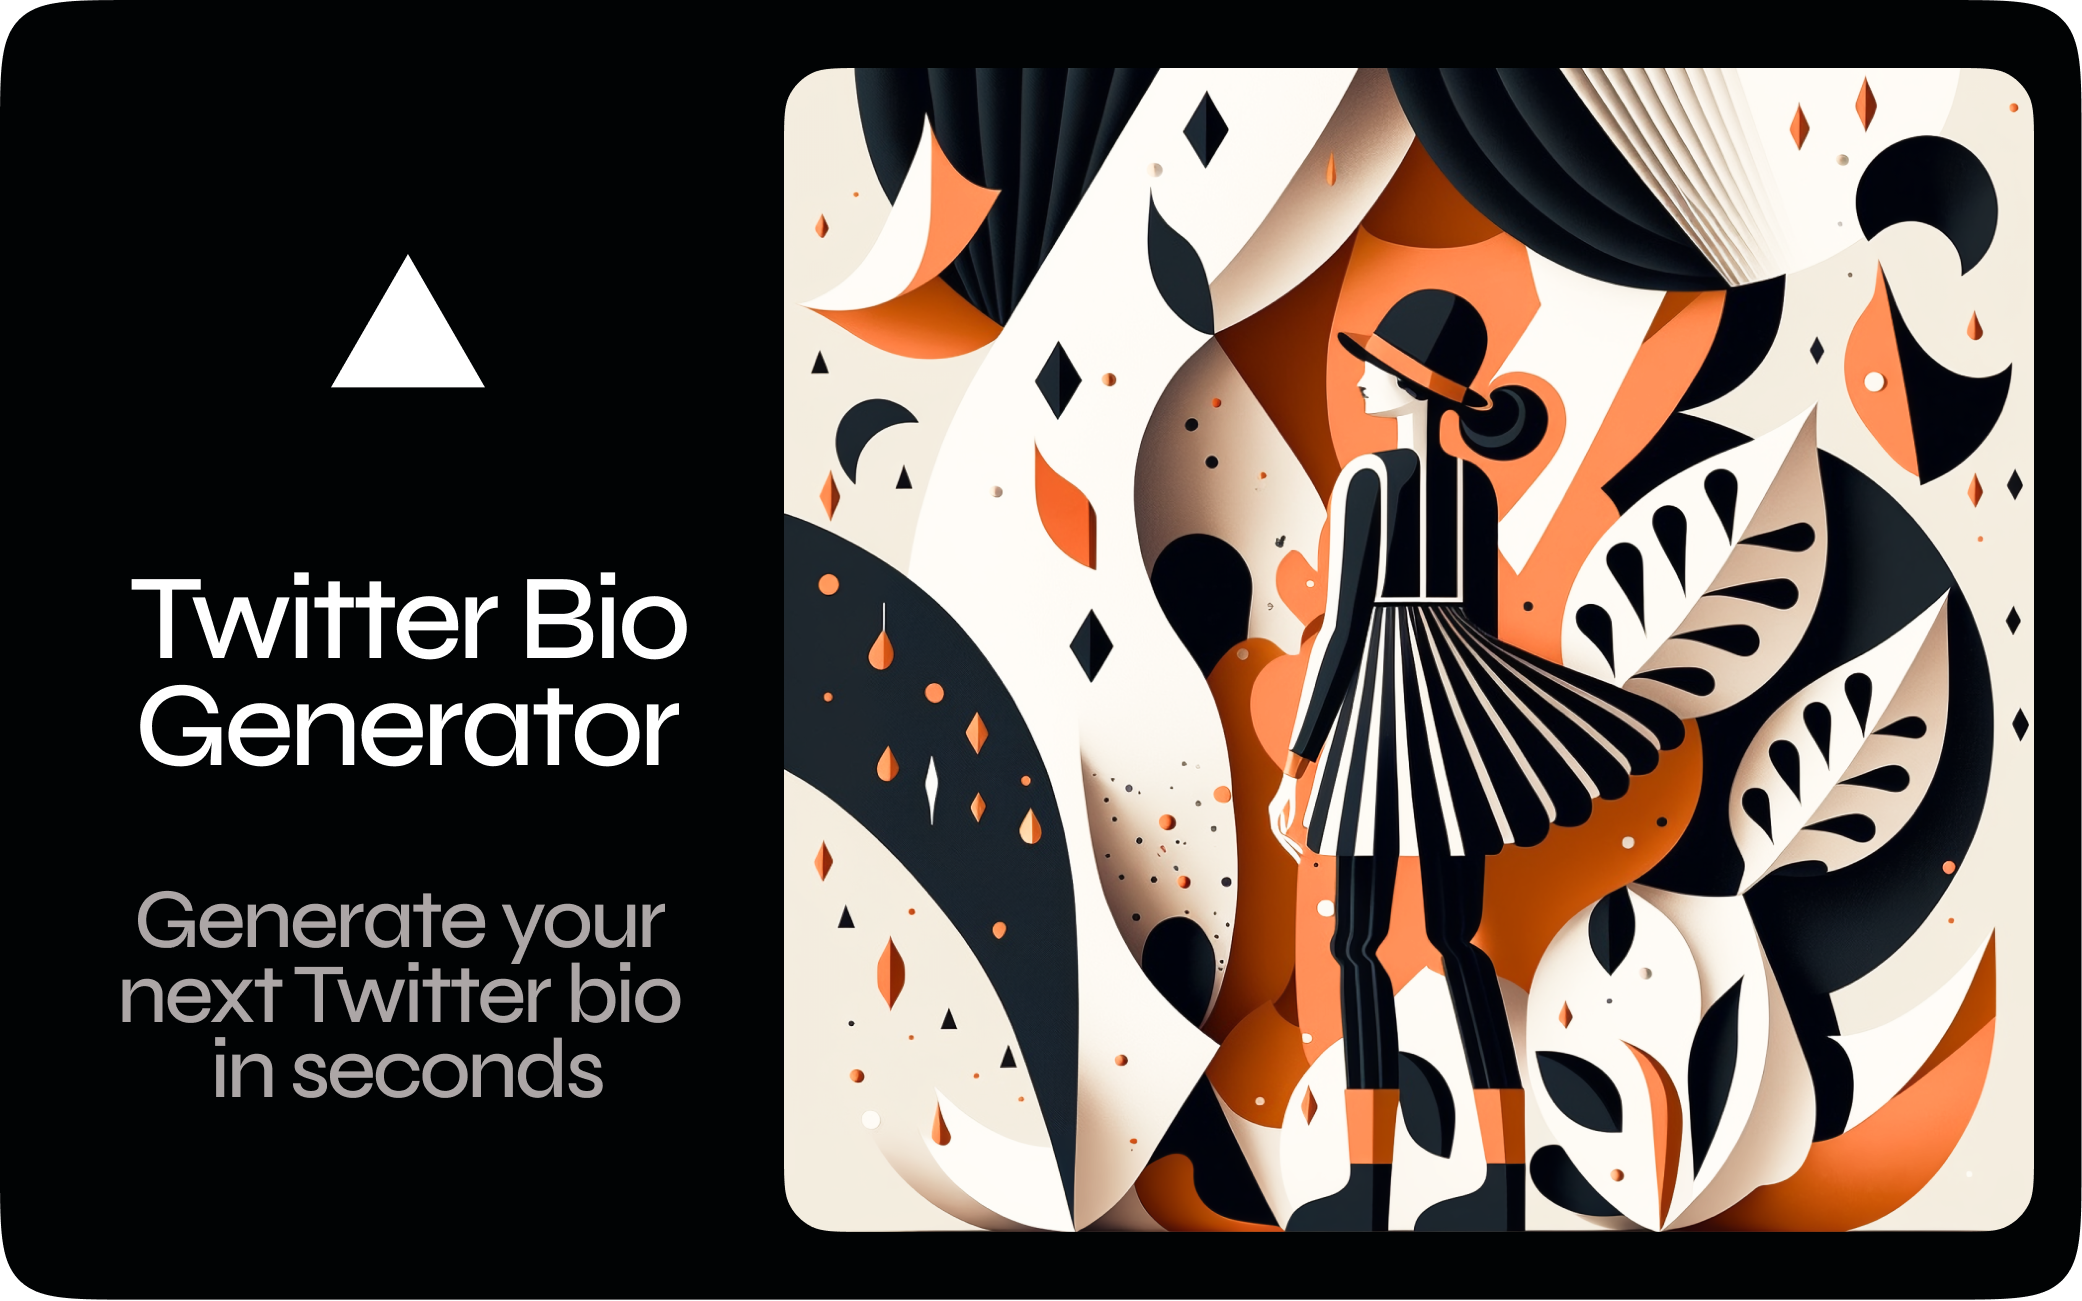
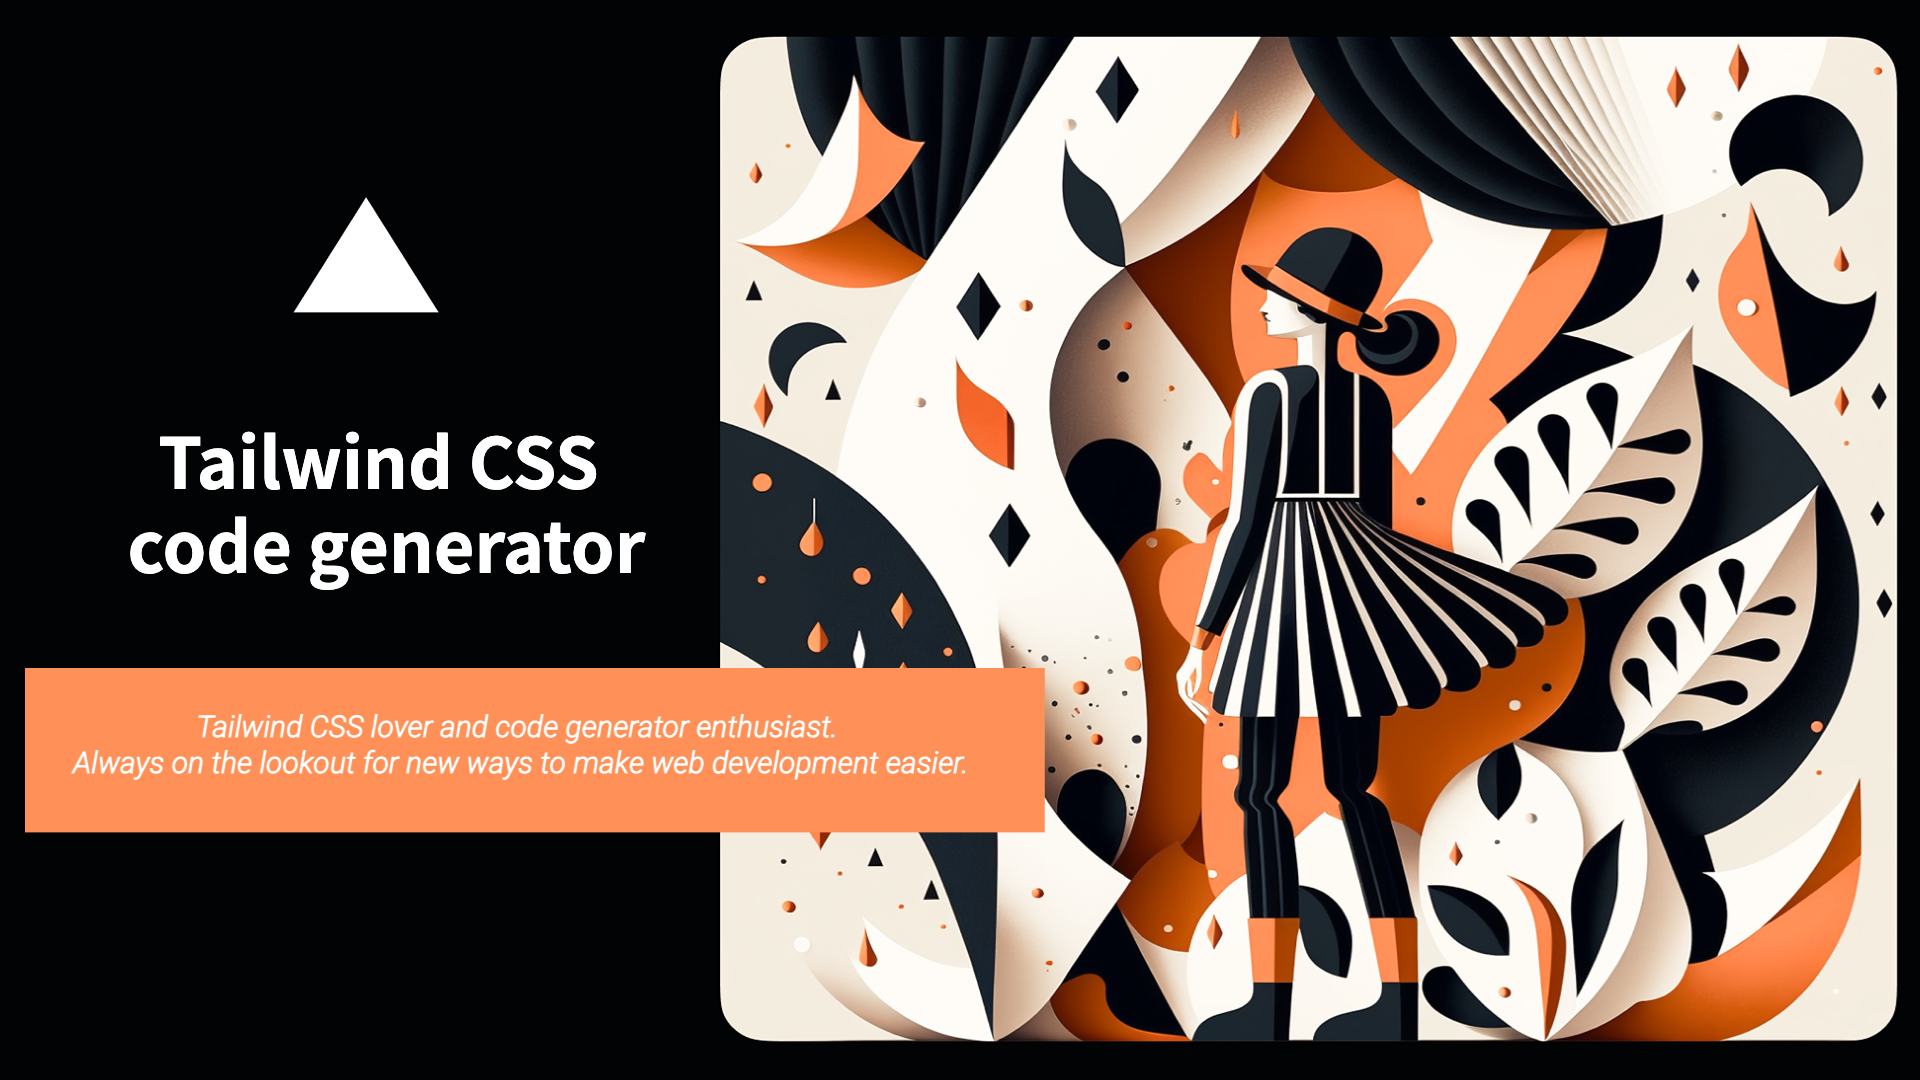
feat: 🎸 og image

diff --git a/src/pages/_document.tsx b/src/pages/_document.tsx
@@ -1,4 +1,5 @@
 import Document, { Head, Html, Main, NextScript } from "next/document";
+import Script from "next/script";
 
 class MyDocument extends Document {
   render() {
@@ -6,25 +7,43 @@ class MyDocument extends Document {
       <Html lang="en">
         <Head>
           <link rel="icon" href="/favicon.ico" />
-          <meta name="description" content="Tailwind CSS 代码生成器" />
-          <meta property="og:description" content="Tailwind CSS 代码生成器" />
-          <meta property="og:title" content="Tailwind CSS 代码生成器" />
-          <meta name="twitter:description" content="Tailwind CSS 代码生成器" />
+          <meta name="description" content="Tailwind CSS code generator" />
+          <meta
+            property="og:description"
+            content="Tailwind CSS lover and code generator enthusiast. Always on the lookout for new ways to make web development easier. 
+"
+          />
+          <meta property="og:title" content="Tailwind CSS code generator" />
+          <meta
+            name="twitter:description"
+            content="Tailwind CSS lover and code generator enthusiast. Always on the lookout for new ways to make web development easier. 
+"
+          />
           <meta
             property="og:image"
-            content="https://twitterbio.com/og-image.png"
+            content="https://openai.maqib.cn/og-image.png"
           />
           <meta
             name="twitter:image"
-            content="https://twitterbio.com/og-image.png"
+            content="https://openai.maqib.cn/og-image.png"
           />
-          <title>Tailwind CSS 代码生成器</title>
-          {/* <script async src="https://pagead2.googlesyndication.com/pagead/js/adsbygoogle.js?client=ca-pub-6121888364111270"
-     crossOrigin="anonymous"></script> */}
         </Head>
         <body>
           <Main />
           <NextScript />
+          <Script
+            src="https://www.googletagmanager.com/gtag/js?id=G-B2T899502N"
+            strategy="afterInteractive"
+          />
+          <Script id="google-analytics" strategy="afterInteractive">
+            {`
+          window.dataLayer = window.dataLayer || [];
+          function gtag(){window.dataLayer.push(arguments);}
+          gtag('js', new Date());
+
+          gtag('config', 'G-B2T899502N');
+        `}
+          </Script>
         </body>
       </Html>
     );

diff --git a/src/pages/index.tsx b/src/pages/index.tsx
@@ -150,6 +150,9 @@ const Home: NextPage = () => {
 
   return (
     <div className="flex h-screen">
+      <Head>
+        <title>Tailwind CSS code generator</title>
+      </Head>
       <ResizableTag
         setResizing={setResizing}
         defaultWidth={400}

diff --git a/README.md b/README.md
@@ -1,13 +1,8 @@
-# [EmailHelper](https://email-helper.vercel.app/)
+# [Tailwind CSS code generator](https://openai.maqib.cn/)
 
-This project generates emails for you using AI.
+Tailwind CSS 代码生成器
 
-[![](./public/screenshot3.png)](https://email-helper.vercel.app/)
-
-## Support
-`English`, `Simplified Chinese`, `Traditional Chinese`, `Japanese`, `Italian`, `German`, `Spanish`,`French`,`Dutch` ,`Korean`,`Khmer`, `Hindi`
-
-PR welcome
+[![](https://p3-juejin.byteimg.com/tos-cn-i-k3u1fbpfcp/7950bdddf1c04b50b5e3a9564c9eaf1c~tplv-k3u1fbpfcp-zoom-in-crop-mark:1512:0:0:0.awebp?)](https://p3-juejin.byteimg.com/tos-cn-i-k3u1fbpfcp/7950bdddf1c04b50b5e3a9564c9eaf1c~tplv-k3u1fbpfcp-zoom-in-crop-mark:1512:0:0:0.awebp?)
 
 ## How it works
 
